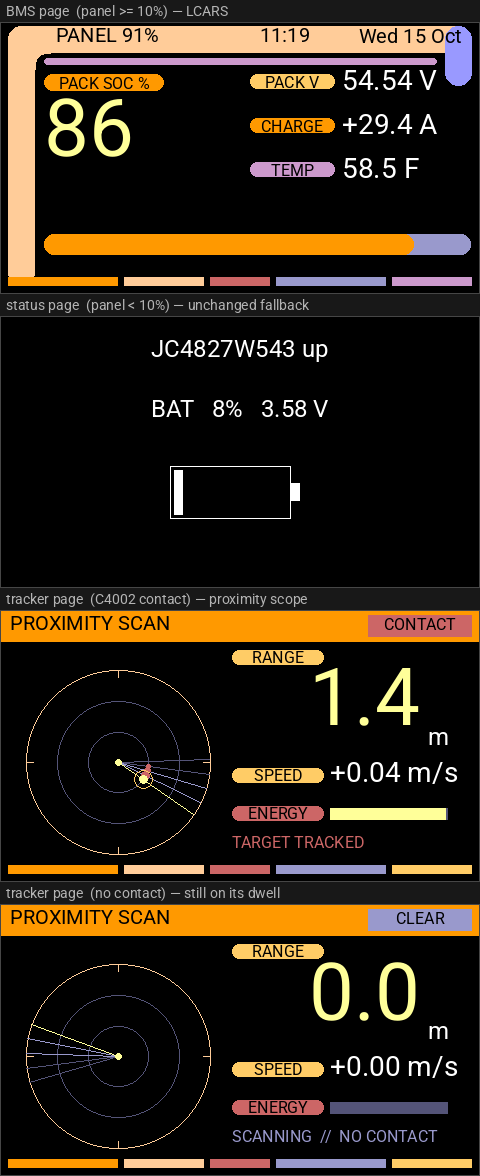
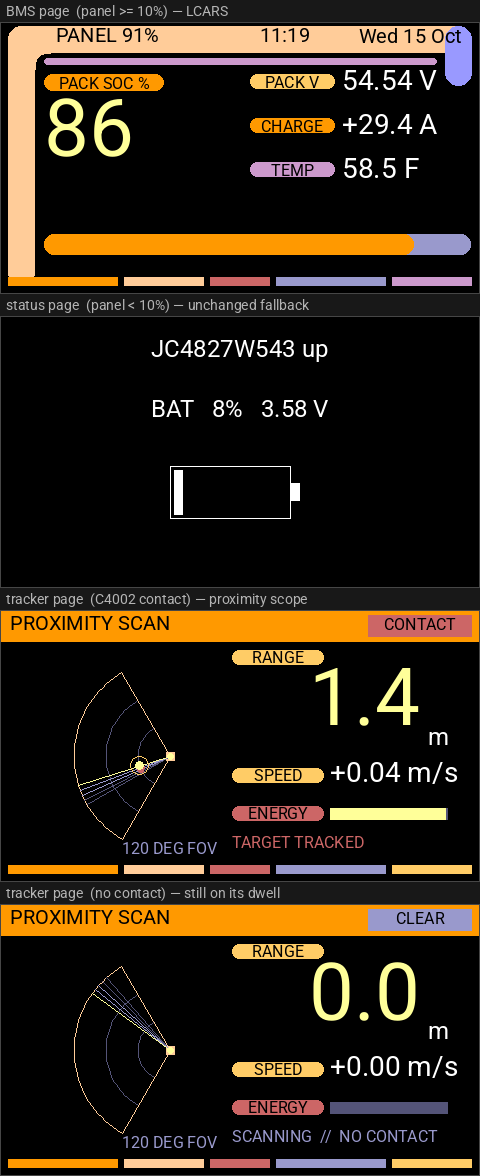
jc4827w543: cut the tracker scope to the sensor's 120 deg field of view
The C4002 sees 120 deg, so the page now draws a wedge, not a circle: apex at
the sensor block, two peach rays as its limits, rings as chains of 3 deg line
segments (no arc primitive), and the arm ping-pongs 0..120 deg instead of
wrapping through coverage the part does not have. Same range mapping and
readouts.

Moved the apex right so the wedge sits between the page margin and the
readout column instead of hugging the left edge, and captioned it 120 DEG FOV.

diff --git a/guition-jc4827w543/tools/preview.py b/guition-jc4827w543/tools/preview.py
@@ -179,9 +179,9 @@ def render_status(v):
 
 
 GRID = (84, 84, 120)                    # scope rings / inactive track (not in the TNG list)
-TRACK = dict(presence=True, dist=1.4, speed=0.04, energy=99.0, sweep_deg=35)
-TRACK_CLEAR = dict(presence=False, dist=0.0, speed=0.0, energy=0.0, sweep_deg=200)
-SCOPE = (118, 152, 92)                  # centre x, centre y, radius
+TRACK = dict(presence=True, dist=1.4, speed=0.04, energy=99.0, sweep_deg=42, dir=1)
+TRACK_CLEAR = dict(presence=False, dist=0.0, speed=0.0, energy=0.0, sweep_deg=96, dir=-1)
+SCOPE = (170, 146, 96)                  # apex x, apex y, radius
 
 
 def render_tracker(v):
@@ -201,16 +201,27 @@ def render_tracker(v):
     d.text((420, 8), 'CONTACT' if contact else 'CLEAR', font=font(16), fill=INK, anchor='mt')
 
     cx, cy, R = SCOPE
-    d.ellipse([cx - R, cy - R, cx + R, cy + R], outline=PEACH)
-    for rr in (R * 2 // 3, R // 3):
-        d.ellipse([cx - rr, cy - rr, cx + rr, cy + rr], outline=GRID)
-    for x0, y0, x1, y1 in ((cx - R, cy, cx - R + 7, cy), (cx + R, cy, cx + R - 7, cy),
-                           (cx, cy - R, cx, cy - R + 7), (cx, cy + R, cx, cy + R - 7)):
-        d.line([x0, y0, x1, y1], fill=PEACH)
 
-    arm = math.radians(v['sweep_deg'])
+    # 120 deg wedge -- the C4002's field of view. PIL has no arc-into-polyline primitive either,
+    # so each ring is a polyline over 3 deg steps, exactly as the lambda chains line segments.
+    def arc(r, c):
+        pts = [(cx + r * math.cos(math.radians(d)), cy + r * math.sin(math.radians(d)))
+               for d in range(120, 241, 3)]
+        d.line(pts, fill=c)
+
+    arc(R, PEACH)
+    arc(R * 2 // 3, GRID)
+    arc(R // 3, GRID)
+    for deg in (120, 240):
+        a = math.radians(deg)
+        d.line([cx, cy, cx + R * math.cos(a), cy + R * math.sin(a)], fill=PEACH)
+    d.rectangle([cx - 4, cy - 4, cx + 4, cy + 4], fill=PEACH)          # the sensor, at the apex
+    d.text((cx, 232), '120 DEG FOV', font=font(16), fill=LAVENDER, anchor='mt')
+
+    arm = math.radians(120 + v['sweep_deg'])
+    trail = v.get('dir', 1) * 0.055
     for t in range(4, 0, -1):
-        a = arm - t * 0.16
+        a = arm - trail * t
         d.line([cx, cy, cx + R * math.cos(a), cy + R * math.sin(a)],
                fill=GRID if t >= 3 else LAVENDER)
     d.line([cx, cy, cx + R * math.cos(arm), cy + R * math.sin(arm)], fill=PALE)
@@ -220,7 +231,7 @@ def render_tracker(v):
         m = min(max(v['dist'], 0.0), 6.0)          # scope scaled to 6 m
         br = 14 + int((R - 18) * m / 6.0)
         for t in range(3, 0, -1):
-            a = arm - t * 0.16
+            a = arm - trail * t
             x, y = cx + br * math.cos(a), cy + br * math.sin(a)
             rr = 5 - t
             d.ellipse([x - rr, y - rr, x + rr, y + rr], fill=SALMON)

diff --git a/guition-jc4827w543/README.md b/guition-jc4827w543/README.md
@@ -36,7 +36,7 @@ Three pages, all drawn by the display lambda in `jc4827w543.yaml`:
 |---|---|---|
 | **BMS** | panel's own cell ≥ 10 %, no proximity contact | LCARS console: one big peach elbow framing the page, the panel's own cell % / clock / date in black on the header bar, a purple rule, then pack state of charge as the page's biggest number over a two-tone bar and pack voltage, charge/discharge current and temperature as label pills with large white readings |
 | **status** | panel's own cell < 10 % | the panel's original screen: model name, its own battery %, its own battery volts, battery icon |
-| **tracker** | the C4002 reports a target, for 20 s after it clears, or while the *Tracker page* switch pins it | proximity scope: three-ring scope with a sweeping arm, the target blipped on that arm at a radius the measured range sets, range as the big number in metres, speed and energy beneath, CONTACT/CLEAR flag in the header |
+| **tracker** | the C4002 reports a target, for 20 s after it clears, or while the *Tracker page* switch pins it | proximity scope: a 120° wedge (the sensor's own field of view) with a sweeping arm that ping-pongs inside it, the target blipped on that arm at a radius the measured range sets, range as the big number in metres, speed and energy beneath, CONTACT/CLEAR flag in the header |
 
 The BMS page is drawn in the TNG console idiom (restyle 2026-10-16, revised for canonical
 palette and elbows in 0141): black field, canonical TNG palette, LCARS pills (a straight body
@@ -129,12 +129,18 @@ the sensor's own hold and then a tail, and then yields back to the BMS page. The
 switch pins the page on regardless of contact, for inspecting it with nobody in front of the
 sensor; it is also the switch Home Assistant can flip.
 
-The sweep is animated by a 150 ms `interval` (one revolution in 3 s) that only runs while the
-tracker page is the one on screen — the BMS and status pages keep their event-driven repaints,
-so an idle panel pays nothing for this.
+The sweep is animated by a 150 ms `interval` (12° per tick, so the arm crosses the wedge in 1.5 s
+each way and ping-pongs rather than wrapping) and only runs while the tracker page is the one on
+screen — the BMS and status pages keep their event-driven repaints, so an idle panel pays nothing
+for this.
 
-Two deliberate choices in the drawing:
+Three deliberate choices in the drawing:
 
+- **The scope is a 120° wedge, not a circle.** That is the C4002's own field of view: the sensor
+  sits at the apex (the small peach block), the two peach rays are its limits, and the arm only
+  ever runs between them. A full-circle scope would be drawing coverage the part does not have.
+  There is no arc primitive in ESPHome's display API, so each ring is a chain of 3° line
+  segments, the same trick the console page uses for its elbow.
 - **The blip has no bearing, and does not pretend to have one.** A single-range mmWave sensor
   reports distance, not angle, so the blip is painted where the arm currently is at a radius the
   range sets (scope scaled 0–6 m). Parking it at a fixed bearing would be a lie drawn in pixels.
